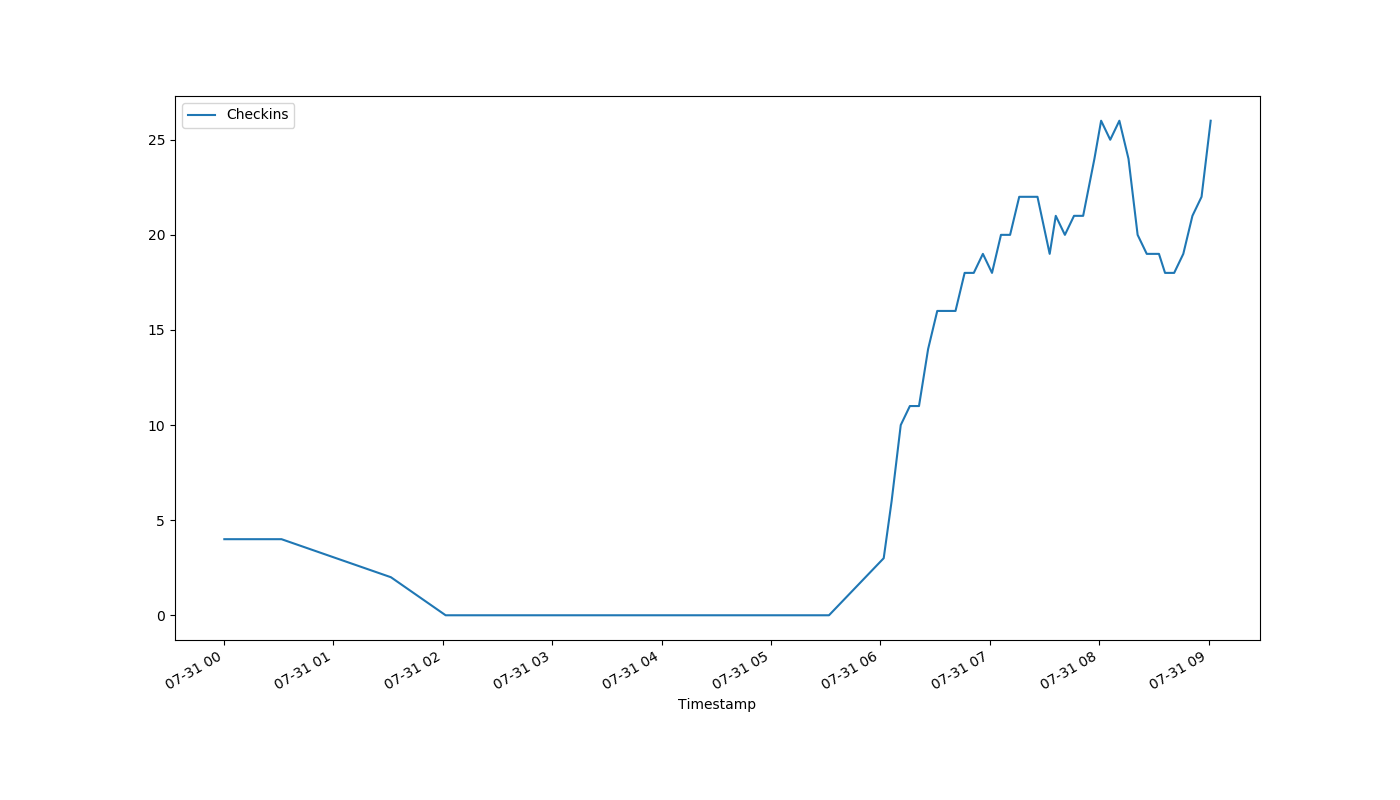
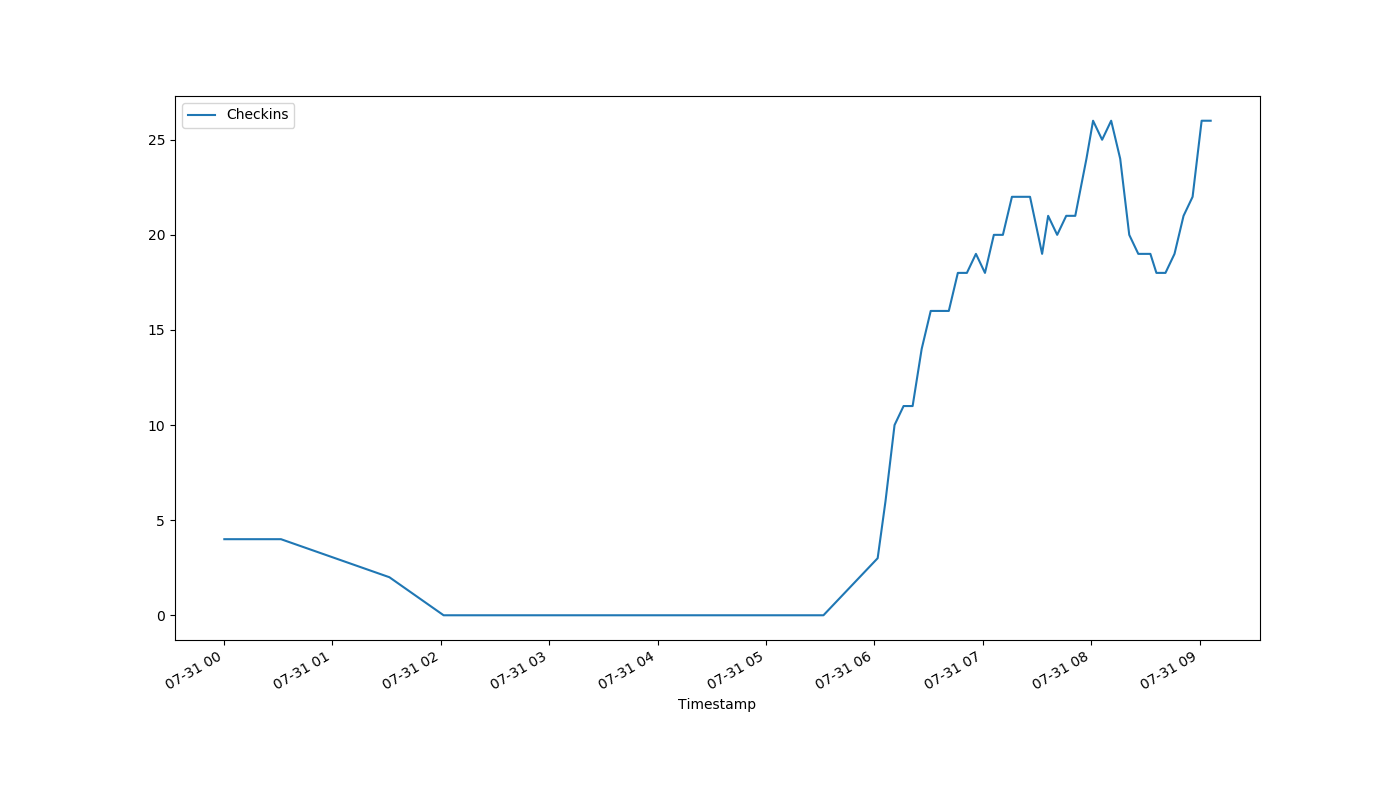
auto-Jul-31-09:07:09

diff --git a/index.html b/index.html
@@ -1,1 +1,1 @@
-<!DOCTYPE html><html><head><meta http-equiv="refresh" content="30"><link rel='stylesheet' href='holmcurrent.css'></head><body><p id='count'>26</p><div id='graph-wrap'><img id='graph' src='holmgraph-Jul-31.png'></div><p id='updated'>Last updated 09:01:08 / 09:01:07</p></body></html>
+<!DOCTYPE html><html><head><meta http-equiv="refresh" content="30"><link rel='stylesheet' href='holmcurrent.css'></head><body><p id='count'>26</p><div id='graph-wrap'><img id='graph' src='holmgraph-Jul-31.png'></div><p id='updated'>Last updated 09:06:08 / 09:06:07</p></body></html>
